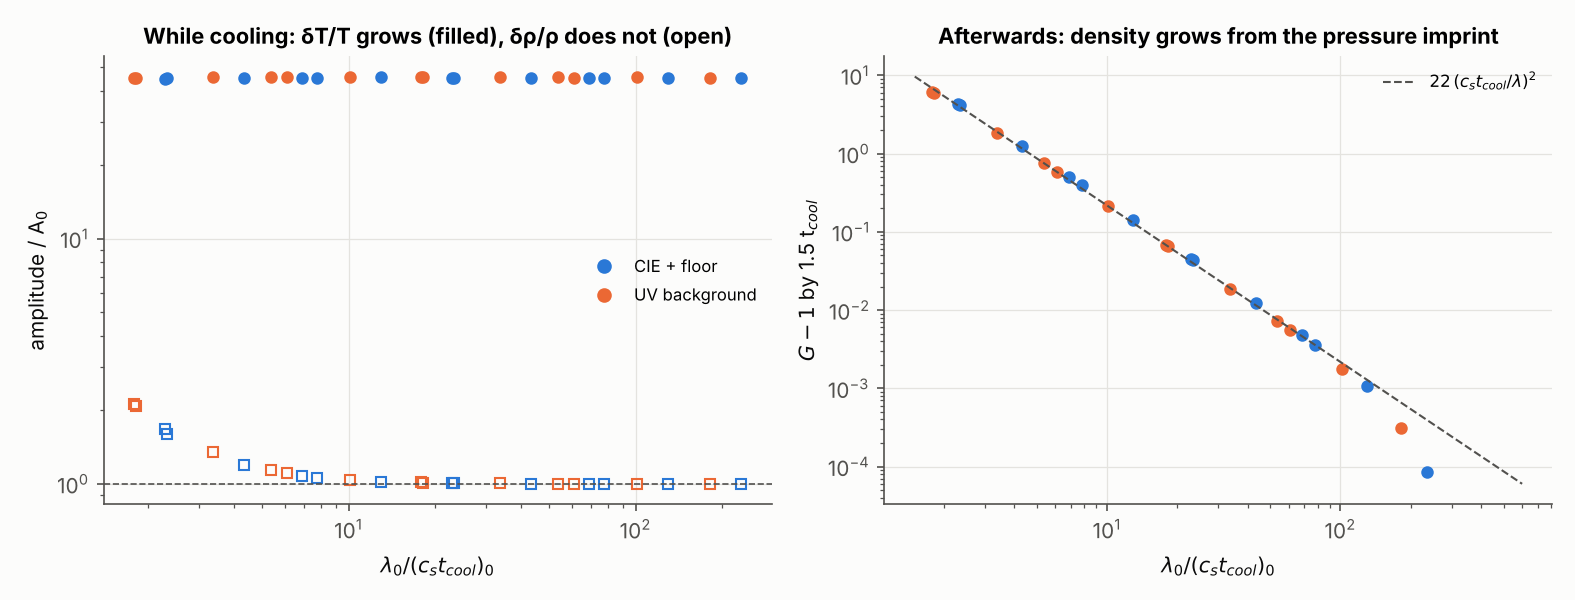
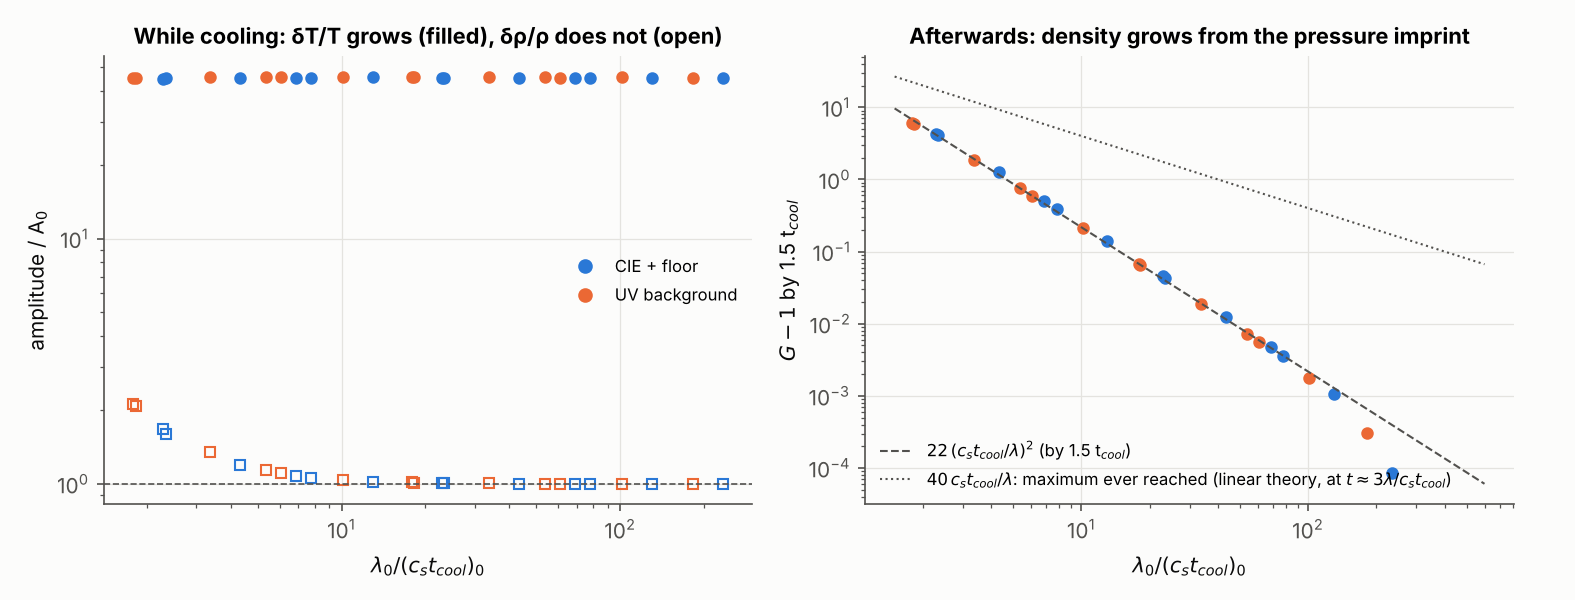
Structure-versus-compression figure, saturation law, figure label fixes
- make_figures_paper: fig_structure (interior contrast, cloud compression
  and number of cold sheets vs time for the nonlinear clouds), fig_letter
  (two-panel figure for the short paper), and the 40/x saturation line on
  the isochoric figure.
- paper_numbers: sections saturation (max G ever reached at long
  wavelengths) and structure (peak interior contrast, duration, sheets).
- fig1: stability criteria credited to Field 1965; fig18/19: distinct line
  styles for the five seeds.

Claude-Session: https://claude.ai/code/session_01XRpGrCuGBTCDxDGRgyCqpx

diff --git a/python/make_figures_paper.py b/python/make_figures_paper.py
@@ -216,7 +216,9 @@ def fig_chi1_isochoric():
     p = np.array([q[2] for q in pref])
     P0 = np.median(p)
     ax[1].loglog(xx, P0 / xx ** 2, color=INK2, lw=1, ls="--",
-                 label=fr"${P0:.0f}\,(c_s t_{{cool}}/\lambda)^2$")
+                 label=fr"${P0:.0f}\,(c_s t_{{cool}}/\lambda)^2$ (by 1.5 t$_{{cool}}$)")
+    ax[1].loglog(xx, 40 / xx, color=INK2, lw=1, ls=":",
+                 label=r"$40\,c_s t_{cool}/\lambda$: maximum ever reached (linear theory, at $t\approx3\lambda/c_st_{cool}$)")
     ax[0].axhline(1, color=INK2, lw=0.8, ls="--")
     ax[0].set_ylabel(r"amplitude / A$_0$")
     ax[0].set_title("While cooling: δT/T grows (filled), δρ/ρ does not (open)")
@@ -360,6 +362,103 @@ def fig_chi1_seeds():
     # n = 1e-3: the L = 200 kpc clouds (the L = 50 kpc ones collapse)
     MP.fig_clouds(["chi1_pert", "chi1_pert_big"], "figP_chi1_seeds.png",
                   keep=lambda d: d["params"]["rho_bg"] == 1e-2 or d["params"]["L_cloud"] == 200.0)
+
+
+# ---------------------------------------------------------------------------
+def fig_structure():
+    """Structure versus compression: interior contrast, cloud compression and the
+    number of separate cold sheets against time, for the nonlinear clouds at
+    T_hot = 1e6 K (UV background solid, floor dashed)."""
+    LXS = [0.3, 1.0, 3.0, 10.0]
+    AMPS = [0.03, 0.1, 0.3]
+    ACOL = dict(zip(AMPS, [S1, S2, S3]))
+    fig, ax = plt.subplots(3, 4, figsize=(15, 9.0), sharex="col")
+    for col, Lx in enumerate(LXS):
+        for cool, ls in [("pie", "-"), ("cie", "--")]:
+            for A in AMPS:
+                sw = "nonlinear_long" if Lx >= 3 else "nonlinear"
+                name = f"nl_{cool}_T1e06_Lx{_fmt(Lx)}_A{_fmt(A)}" + ("_long" if Lx >= 3 else "")
+                f = os.path.join(RES, "runs", sw, name + ".npz")
+                if not os.path.exists(f):
+                    continue
+                d = P.load(f)
+                t = d["t"] / tc(d)
+                c = ACOL[A]
+                ax[0, col].semilogy(t, np.maximum(d["amp_max"], 1e-3), color=c, lw=1.4, ls=ls,
+                                    label=f"A$_0$ = {A:g}" if cool == "pie" else None)
+                ax[1, col].semilogy(t, np.asarray(d["nmean"]) / d["nmean"][0], color=c, lw=1.4, ls=ls)
+                ax[2, col].plot(t, np.asarray(d["nl_ncold"]), color=c, lw=1.4, ls=ls)
+                t_e = t_end(d) / tc(d)
+        for a in ax[:, col]:
+            a.axvline(t_e, color=GRID, lw=1)
+            a.axvline(Lx, color=INK2, lw=0.8, ls=":")
+        ax[0, col].set_title(f"L = {Lx:g} c$_s$t$_{{cool}}$")
+        ax[0, col].set_ylim(1e-3, 1e3)
+        ax[1, col].set_ylim(0.8, 3e3)
+        ax[2, col].set_ylim(0, 14)
+        ax[2, col].set_xlabel(r"t / t$_{cool}$")
+    ax[0, 0].set_ylabel(r"interior max $\rho/\bar\rho - 1$")
+    ax[1, 0].set_ylabel(r"cloud compression $\bar\rho/\bar\rho_0$")
+    ax[2, 0].set_ylabel("separate cold sheets")
+    h = [Line2D([], [], color=ACOL[A], lw=1.4, label=f"A$_0$ = {A:g}") for A in AMPS]
+    h += [Line2D([], [], color=INK2, lw=1.4, label="UV background"),
+          Line2D([], [], color=INK2, lw=1.4, ls="--", label="CIE + floor"),
+          Line2D([], [], color=INK2, lw=0.8, ls=":", label=r"t = L/c$_{s,hot}$"),
+          Line2D([], [], color=GRID, lw=1, label=r"t$_{end}$")]
+    ax[0, 0].legend(handles=h, fontsize=7.5, loc="upper left", ncol=2)
+    save(fig, "figP_structure.png")
+
+
+# ---------------------------------------------------------------------------
+def fig_letter():
+    """Two-panel figure for the short paper: amplification against x (linear theory and
+    the cloud simulations, UV background) and the minimum seed."""
+    m = dict(np.load(os.path.join(RES, "linear_maps_uvb.npz")))
+    base = (m["cooling"] == "pie") & (m["n0"] == 1e-3) & (m["Z"] == 0.3) & (m["T0"] == 1e6)
+    fig, ax = plt.subplots(1, 2, figsize=(11, 4.2))
+    a = ax[0]
+    for bg, ls in [("isochoric", "-"), ("isobaric", ":")]:
+        sel = base & (m["bg"] == bg)
+        if bg == "isobaric":
+            sel &= m["x"] <= 1.0
+        o = np.argsort(m["x"][sel])
+        a.loglog(m["x"][sel][o], m["G_max_cool"][sel][o], color=INK2, lw=1.6, ls=ls,
+                 label=("infinite medium" if bg == "isochoric" else "small isobaric cloud") + ", while cooling")
+        a.loglog(m["x"][sel][o], m["G_after"][sel][o], color=S4, lw=1.6, ls=ls,
+                 label=("infinite medium" if bg == "isochoric" else "small isobaric cloud") + r", by 1.5 t$_{cool}$")
+    xx = np.logspace(0, 2.5, 50)
+    a.loglog(xx, 1 + 40 / xx, color=S4, lw=0.9, ls="-.", label=r"maximum ever reached, $1+40\,c_st_{cool}/\lambda$")
+    for d in runs(*CHI1_SETS):
+        if d["params"]["cooling"] != "pie":
+            continue
+        mm = cloud_metrics(d)
+        ok = mm["cells_per_lam_final"] >= 10
+        c = lcol(mm["Lx"])
+        a.loglog(mm["x"], mm["G_cool"], "o", color=c, ms=5, mfc=c if ok else "none")
+    h = [Line2D([], [], color=c, marker="o", ls="none", label=f"clouds, L/c$_s$t$_{{cool}}$ {lab.replace('L/c$_s$t$_{cool}$ ', '')}") for _, _, c, lab in LBINS]
+    leg1 = a.legend(fontsize=6.8, loc="lower left")
+    a.add_artist(leg1)
+    a.legend(handles=h, fontsize=6.8, loc="upper right", title="simulations, while cooling (A = 0.02)", title_fontsize=6.8)
+    a.set_xlabel(r"$\lambda/(c_s t_{cool})$")
+    a.set_ylabel(r"amplification $|\delta\rho/\rho|/A$ of the seeded mode")
+    a.set_title("Growth of a density seed (UV background, T$_0$ = 10$^6$ K)")
+    a.set_ylim(0.7, 5e3)
+    a.set_xlim(5e-3, 400)
+    # right: minimum seed
+    a = ax[1]
+    for cool, n, c, lab in [("ciecl", 1e-2, INK2, "Cloudy CIE + 10$^4$ K floor")] + [("pie", n, cc, f"UV background, n = {n:g}") for n, cc in zip([1e-4, 1e-3, 1e-2], [S1, S2, S3])]:
+        sel = (m["cooling"] == cool) & (m["n0"] == n) & (m["Z"] == 0.3) & (m["T0"] == 1e6) & (m["bg"] == "isochoric")
+        o = np.argsort(m["x"][sel])
+        a.loglog(m["x"][sel][o], np.minimum(1 / m["G_after"][sel][o], 1), color=c, lw=1.6, label=lab)
+        a.loglog(m["x"][sel][o], np.minimum(1 / m["dT_max_after"][sel][o], 1), color=c, lw=1, ls="--")
+    a.plot([], [], color=INK2, lw=1.6, label=r"$|\delta\rho/\rho|$ reaches 1")
+    a.plot([], [], color=INK2, lw=1, ls="--", label=r"$|\delta T/T|$ reaches 1")
+    a.set_xlabel(r"$\lambda/(c_s t_{cool})$")
+    a.set_ylabel(r"minimum seed $\delta\rho/\rho$ (infinite medium)")
+    a.set_title(r"Seed needed to go nonlinear by 1.5 t$_{cool}$")
+    a.legend(fontsize=7)
+    a.set_ylim(2e-3, 1.5)
+    save(fig, "figL_growth.png")
 
 
 # ---------------------------------------------------------------------------

diff --git a/python/paper_numbers.py b/python/paper_numbers.py
@@ -382,6 +382,52 @@ def coasting():
                   f"  (G(1.5 t_cool)-1) x^2 = {(o['s'][j] - 1) * x**2:.1f}")
 
 
+def saturation():
+    """Sec. 'After cooling' / 'Long-wavelength regime': the maximum the long-wavelength
+    growth ever reaches in linear theory, and when (fraction of the cold sound period)."""
+    from make_figures_paper import envelope  # noqa: F401
+    header("Long-wavelength saturation (linear theory): max G ever reached")
+    for cool, n in [("cie", 1e-2), ("pie", 1e-3)]:
+        m = CM.make_model(cool, 0.3)
+        ref = LT.integrate(n, 1e6, 1.0, model=m, amp=0.0, stop_factor=LT.T_END_FACTOR)
+        tc0 = ref["tcool0_Myr"]
+        cs_cold = C.cs_of(ref["T"][-1]) / C.kpc * C.Myr
+        print(f"{cool}: c_s,cold = {cs_cold * C.kpc / C.Myr / 1e5:.1f} km/s, c_s0/c_s,cold = {C.cs_of(1e6) / C.cs_of(ref['T'][-1]):.1f}")
+        for x in [1, 2, 3, 5, 10, 20, 30]:
+            period = x * ref["cs_tcool0_kpc"] / cs_cold / tc0
+            tmax = max(3.0, 2.0 * period)
+            t_out = np.unique(np.concatenate([np.linspace(0, 2 * tc0, 400),
+                                              np.logspace(np.log10(2 * tc0), np.log10(tmax * tc0), 4000)]))
+            o = LT.integrate(n, 1e6, x * ref["cs_tcool0_kpc"], model=m, amp=1.0, Tstop=0,
+                             t_end=tmax * tc0 * C.Myr, t_out=t_out)
+            t, s = o["t"] / tc0, np.abs(o["s"])
+            i = np.argmax(s)
+            print(f"   x={x:3g}: cold sound period {period:6.1f} t_cool; max G = {s[i]:6.2f} at t = {t[i]:6.1f} t_cool"
+                  f" = {t[i] / period:.2f} periods = {t[i] / x:.1f} x t_cool;  (G-1) x = {(s[i] - 1) * x:.1f}")
+
+
+def structure():
+    """Sec. 'Structure versus compression' (Fig. structure): peak interior contrast,
+    when it occurs, the compression then, the number of cold sheets, and the state at the
+    end of the run, for the T_hot = 1e6 K nonlinear clouds."""
+    header("Structure versus compression (nonlinear clouds, T_hot = 1e6 K)")
+    sets = [d for d in runs("nonlinear") if 0 < d["params"]["L_cloud"] < 2 * d["cs_tcool0"]]
+    sets += runs("nonlinear_long")
+    for d in sorted(sets, key=lambda q: (q["params"]["cooling"], q["params"]["L_cloud"], q["params"]["amp"])):
+        p = d["params"]
+        if p["T_bg"] != 1e6:
+            continue
+        t = d["t"] / tc(d)
+        Lx = p["L_cloud"] / d["cs_tcool0"]
+        am, comp, nc = np.asarray(d["amp_max"]), np.asarray(d["nmean"]) / d["nmean"][0], np.asarray(d["nl_ncold"])
+        i = np.argmax(am)
+        above = t[am > 1]
+        print(f"{p['name']:30s} L/cstc={Lx:4.1f} A={p['amp']:<4g}: peak interior {am[i]:6.1f} at {t[i]:4.1f} t_cool"
+              f" (compression then {comp[i]:5.1f}, sheets {nc[i]:2d});  interior > 1 for t = "
+              + (f"{above.min():.1f}-{above.max():.1f}" if len(above) else " never ")
+              + f";  end of run ({t[-1]:4.1f} t_cool): interior {am[-1]:6.2f}, compression {comp[-1]:6.1f}, sheets {nc[-1]}")
+
+
 def durations():
     """Table 'runs': run durations in units of t_cool (initial e-folding time)."""
     header("Run durations in t_cool (Table 'runs')")
@@ -403,7 +449,8 @@ SECTIONS = dict(nonlinear=nonlinear, runaway=runaway, long_time=long_time, heate
                 seeds=seeds, conduction=conduction, sonic_vc=sonic_vc, dT_peaks=dT_peaks,
                 dT_validation=dT_validation, long_time_peaks=long_time_peaks,
                 nonlinear_balance=nonlinear_balance, metallicity=metallicity,
-                durations=durations, coasting=coasting)
+                durations=durations, coasting=coasting, saturation=saturation,
+                structure=structure)
 
 if __name__ == "__main__":
     for name in (sys.argv[1:] or SECTIONS):

diff --git a/python/make_figures_pert.py b/python/make_figures_pert.py
@@ -18,6 +18,7 @@ from make_figures import FIG, RES, S1, S2, S3, S4, S5, INK2, GRID, plt, save
 
 PERTS = ["density", "temperature", "sound", "velocity", "metal"]
 PCOL = dict(zip(PERTS, [S1, S2, S3, S4, S5]))
+PLS = dict(zip(PERTS, ["-", "--", ":", "-", "-."]))   # line styles, so T and Z seeds differ
 PLAB = {"density": "density (isobaric)", "temperature": "temperature (isochoric)",
         "sound": "sound wave", "velocity": "velocity", "metal": "metallicity"}
 CLAB = {"ciecl_z": "CIE + floor", "pie_z": "UV background"}
@@ -42,9 +43,9 @@ def fig_histories():
             o = LT.integrate(1e-3, 1e6, d["params"]["lam"], model=m, amp=1.0, pert=pt,
                              Tstop=0, t_end=tt[-1] * C.Myr * 1.001, t_out=tt)
             c = PCOL[pt]
-            ax[row, 0].plot(o["t"] / tf, o["s"], color=c, lw=1.5, label=PLAB[pt])
+            ax[row, 0].plot(o["t"] / tf, o["s"], color=c, lw=1.5, ls=PLS[pt], label=PLAB[pt])
             ax[row, 0].plot(d["t"][::6] / tf, d["amp_mode"][::6] / 1e-3, "o", color=c, ms=3.5, mfc="none")
-            ax[row, 1].plot(o["t"] / tf, o["dK"], color=c, lw=1.5)
+            ax[row, 1].plot(o["t"] / tf, o["dK"], color=c, lw=1.5, ls=PLS[pt])
             ax[row, 1].plot(d["t"][::6] / tf, d["amp_mode_K"][::6] / 1e-3, "o", color=c, ms=3.5, mfc="none")
         for a in ax[row]:
             a.set_yscale("symlog", linthresh=1)
@@ -80,7 +81,7 @@ def fig_linear_survey():
                 sel = (m["cooling"] == cool) & (m["pert"] == pt) & (m["bg"] == "isochoric")
                 o = np.argsort(m["x"][sel])
                 a.loglog(m["x"][sel][o], np.maximum(m[key][sel][o], 1e-3), color=PCOL[pt], lw=1.6,
-                         label=PLAB[pt])
+                         ls=PLS[pt], label=PLAB[pt])
             a.axhline(1, color=INK2, lw=0.6, ls="--")
             a.set_title(f"{CLAB[cool]}: |δρ/ρ|/A, {ttl}")
             a.set_ylim(1e-2, 3e2)

diff --git a/python/make_figures.py b/python/make_figures.py
@@ -62,9 +62,9 @@ def fig_cooling():
     ax[0].set_ylabel(r"$\Lambda$ [erg cm$^3$ s$^{-1}$]  ($n_e n_H$ norm.)")
     ax[0].set_title("Cooling function used (approximate S&D93 CIE)")
     ax[0].legend()
-    for y, lab in [(2, r"isobaric unstable below ($\Lambda_T<2$), both cases"),
-                   (1, r"cooling gas: $\delta p$ grows below ($\Lambda_T<1$)"),
-                   (0, r"Das et al. isochoric unstable below ($\Lambda_T<0$)")]:
+    for y, lab in [(2, r"isobaric unstable below ($\Lambda_T<2$; Field 1965), heated or cooling"),
+                   (1, r"cooling gas: $\delta p/p$ grows below ($\Lambda_T<1$)"),
+                   (0, r"heated medium: isochoric unstable below ($\Lambda_T<0$; Field 1965)")]:
         ax[1].axhline(y, color=INK2, lw=0.8, ls="--")
         ax[1].text(9.5e7, y + 0.1, lab, color=INK2, fontsize=7.5, ha="right",
                    bbox=dict(fc="#fcfcfb", ec="none", pad=0.5))
